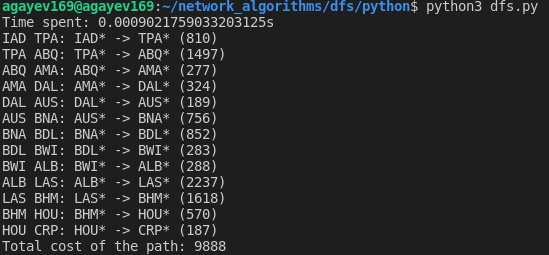
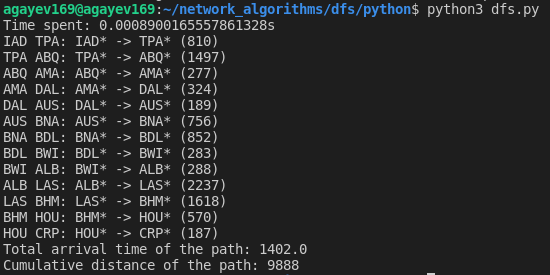
Calculate total time of the path for airport dataset

Changed region(s): [[0.0, 0.0, 0.9909, 0.9882], [0.7741, 0.9882, 0.8051, 1.0]]

diff --git a/dfs/python/dfs.py b/dfs/python/dfs.py
@@ -52,8 +52,8 @@ def dfs(gr, orig, dest, edges=[]):
 
     return edges
 
-filename = "cities_in_az.csv"
-# filename = "airports.csv"
+# filename = "cities_in_az.csv"
+filename = "airports.csv"
 gr = graph()
 
 data = pd.read_csv(filename)
@@ -84,8 +84,6 @@ if filename == "cities_in_az.csv":
     plt.show()
 
 elif filename == "airports.csv":
-    data = pd.read_csv(filename)
-
     for i in range(len(data)):
         d = data.loc[i].values
 
@@ -102,8 +100,10 @@ elif filename == "airports.csv":
     for e in res:
         print(e)
 
-    cost = sum([e.get_weight() for e in res])
-    print(f"Total cost of the path: {cost}")
+    arr_t = sum([data[(data["Origin"] == e.get_endpoints()[0].get_label()) & (data["Dest"] == e.get_endpoints()[1].get_label()) & (data["Distance"] == e.get_weight())].reset_index(drop=True)["AirTime"].values[0] for e in res])
+    print(f"Total arrival time of the path: {arr_t}")
+    dist = sum([e.get_weight() for e in res])
+    print(f"Cumulative distance of the path: {dist}")
 
     g = nx.from_pandas_edgelist(data, source="Origin", target="Dest", edge_attr="Distance")
     plt.figure()
